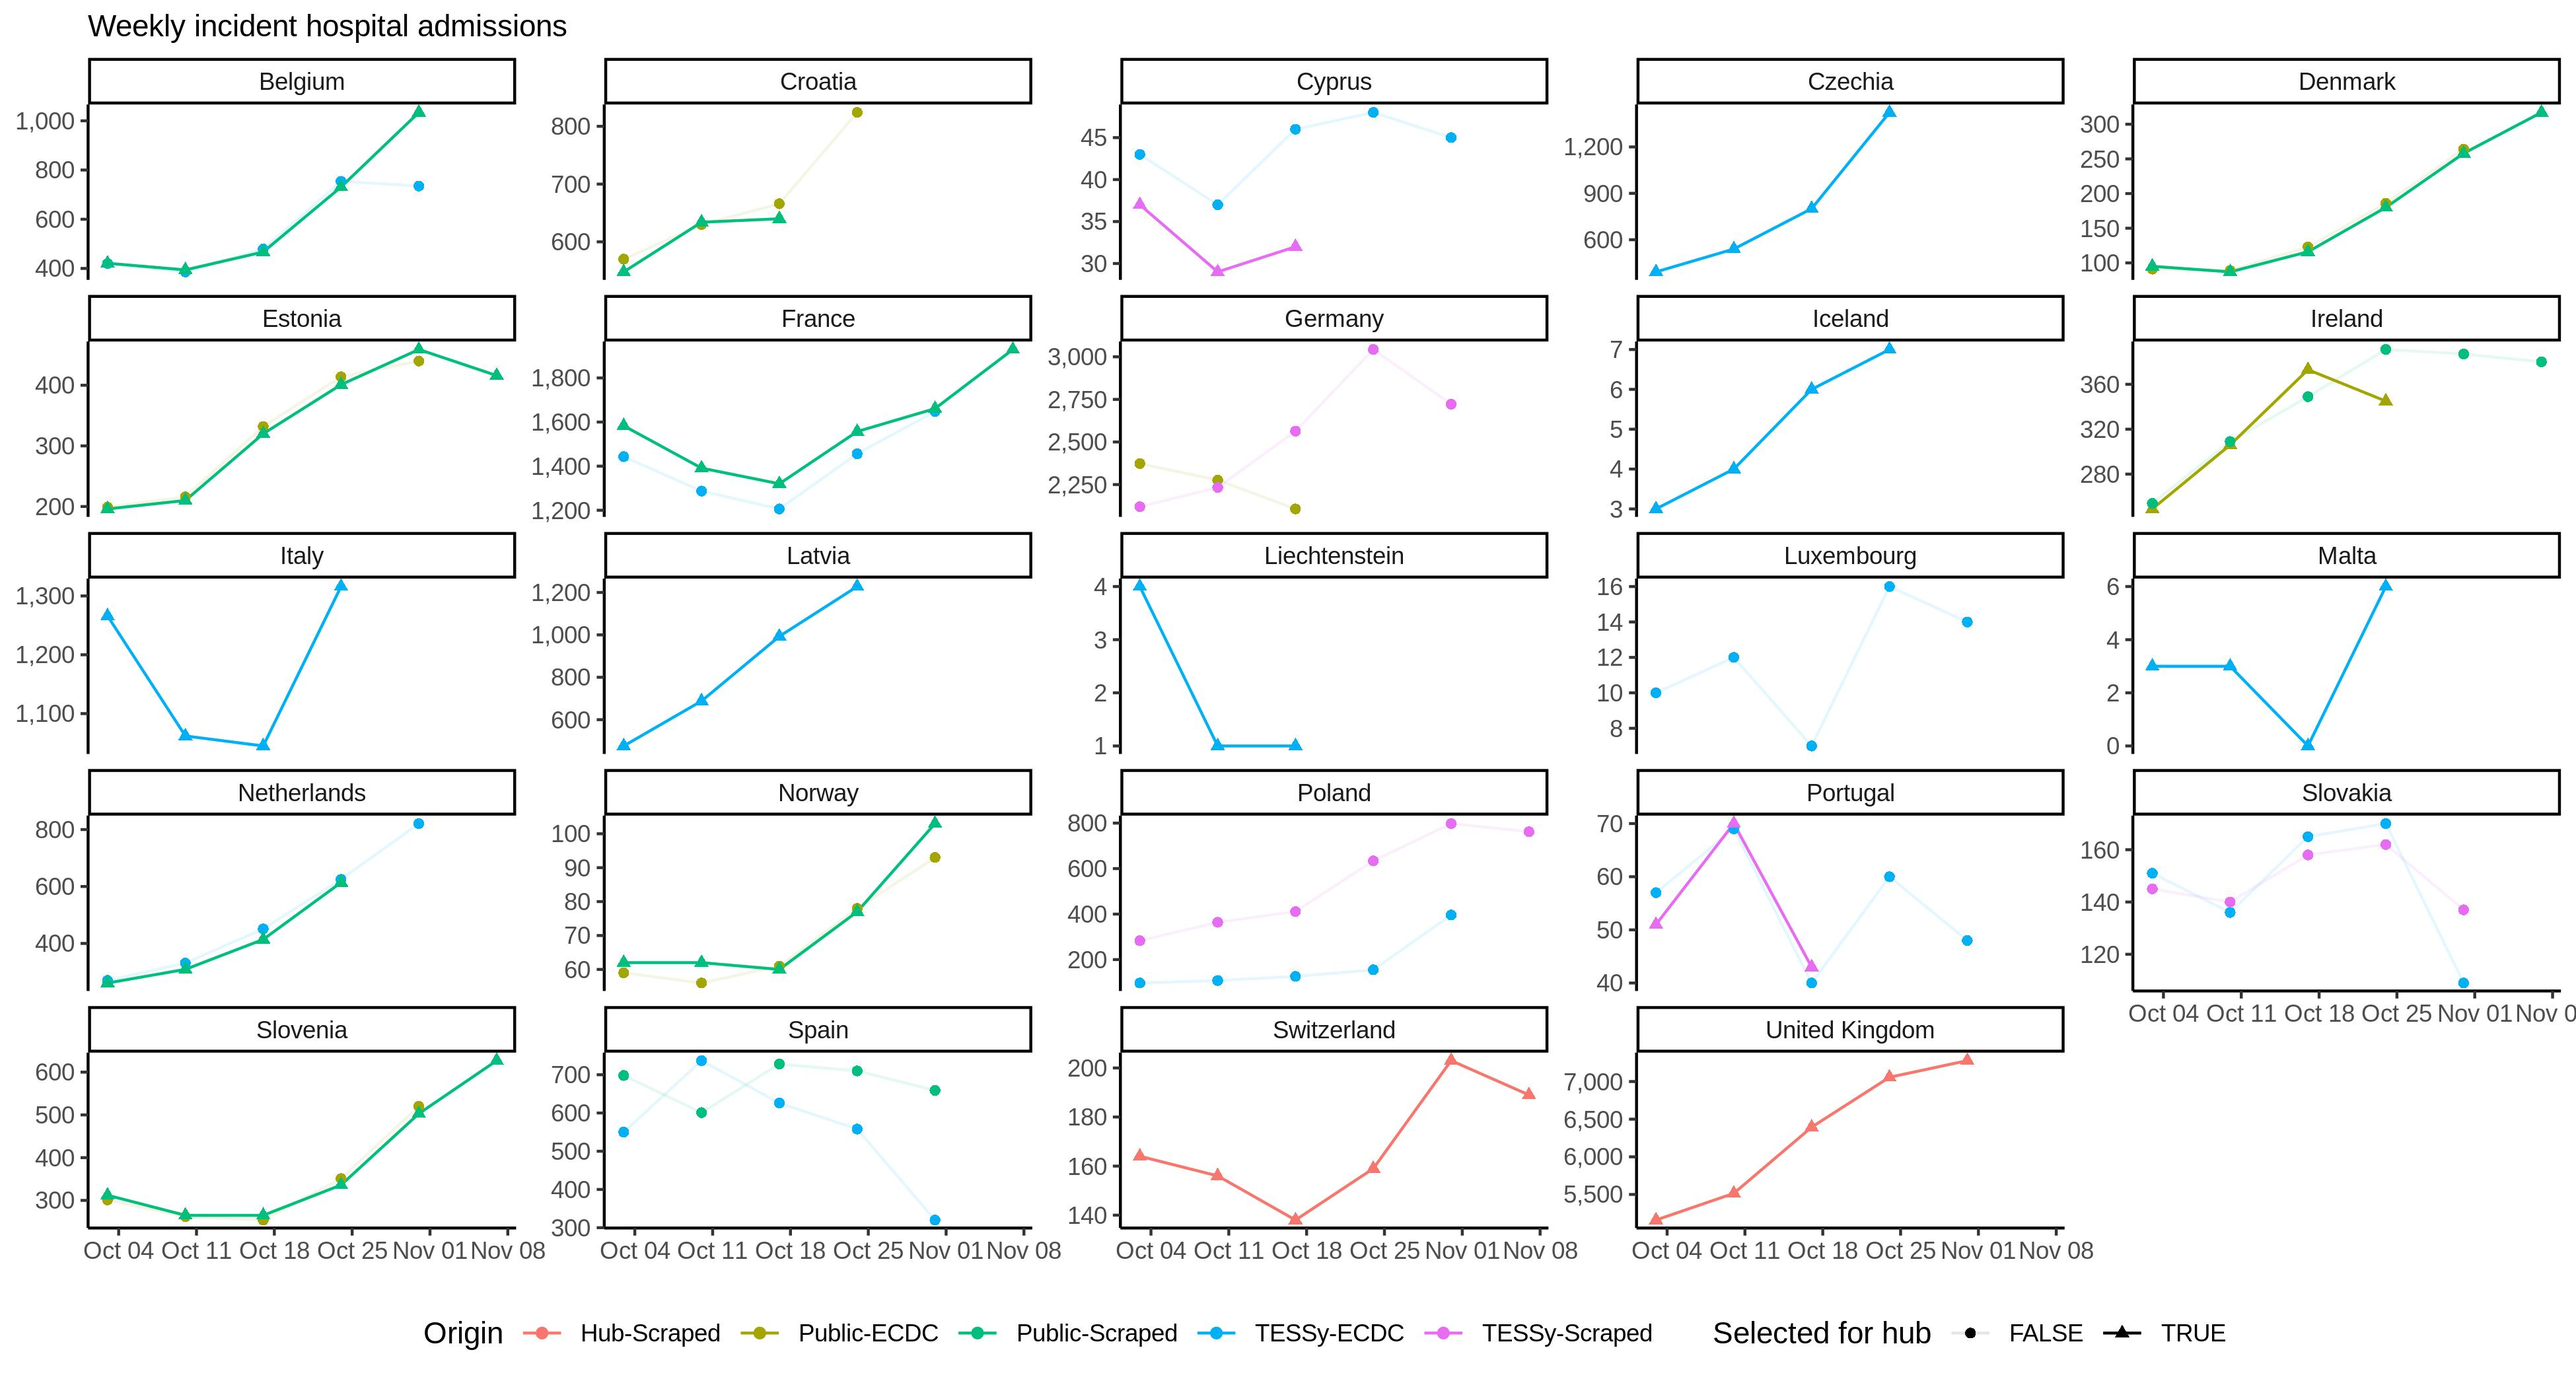
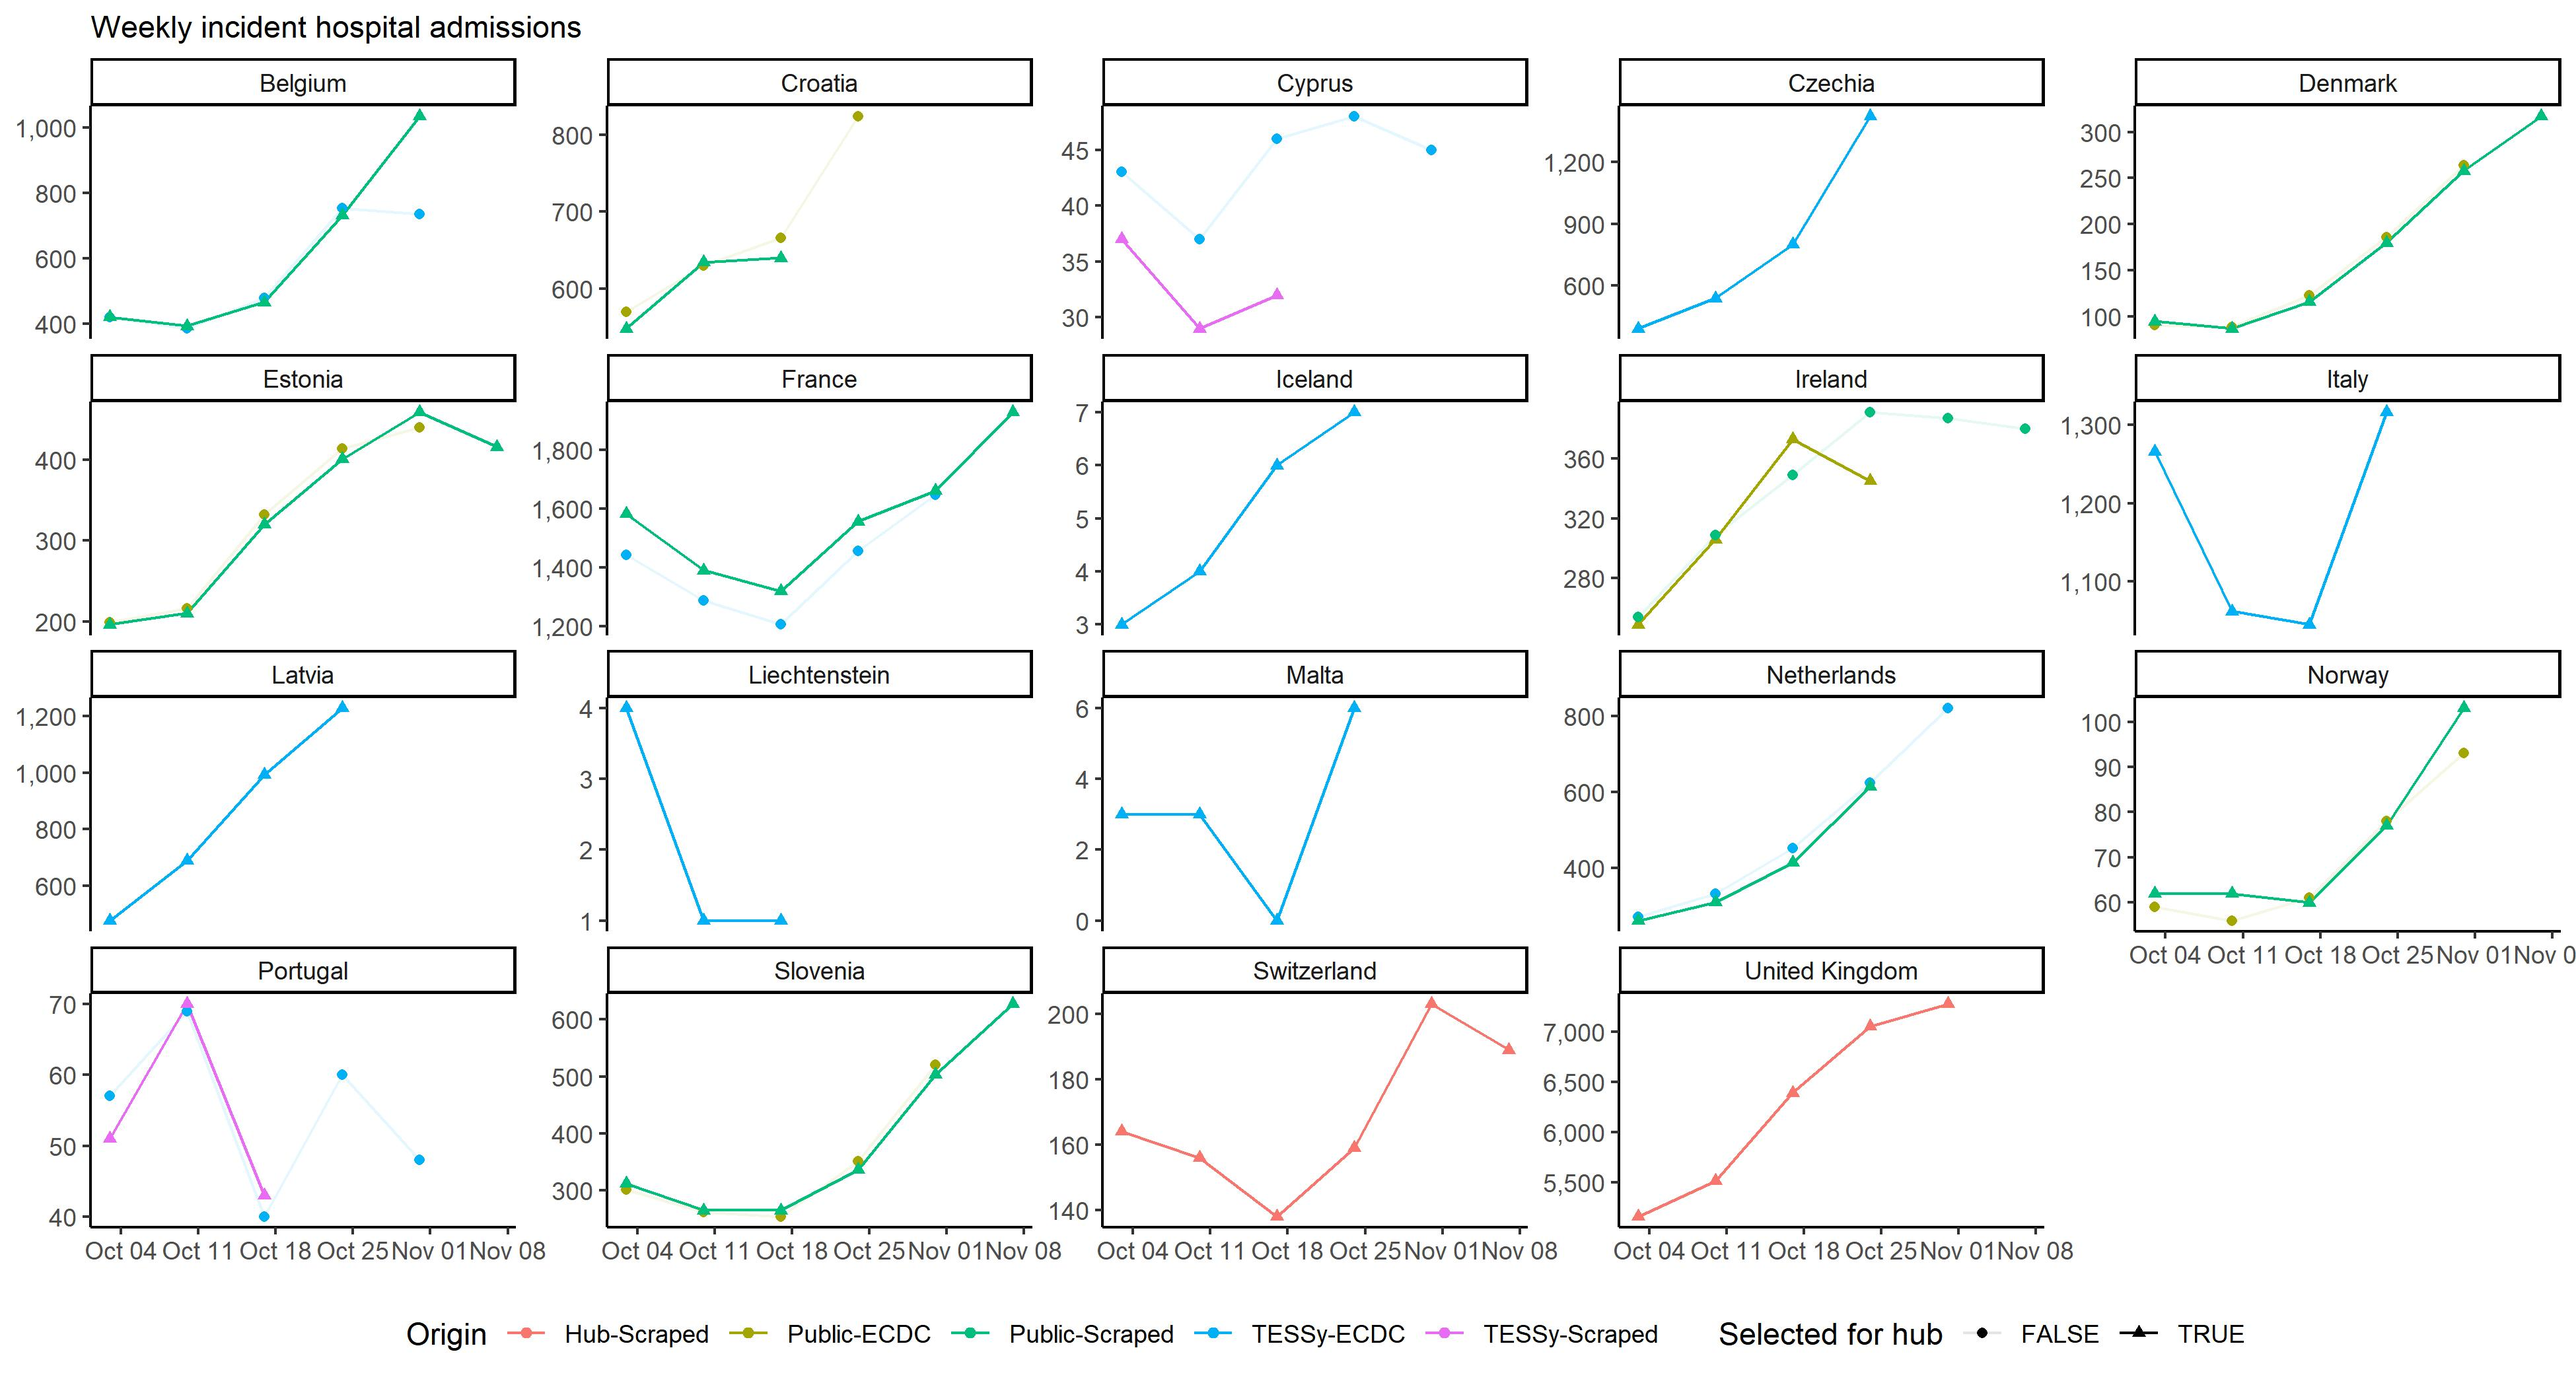
Truth data README hospitalisation clarification
Update truth data README for hospitalisations
- Clarify exactly which countries are included as valid with truth data
- Plot only those countries

There remains some problem with the JHU part of this Rmd, to be fixed separately

diff --git a/data-truth/README.md b/data-truth/README.md
@@ -9,11 +9,11 @@ We evaluate forecasts of cases and deaths against [Johns Hopkins
 University data](https://github.com/CSSEGISandData/COVID-19), and we
 recommend using this dataset as the basis for forecasts.
 
-  - Daily numbers of cases and deaths are available to download from
+-   Daily numbers of cases and deaths are available to download from
     [JHU](https://github.com/CSSEGISandData/COVID-19/tree/master/csse_covid_19_data/csse_covid_19_time_series),
     or from [our
     repository](https://github.com/epiforecasts/covid19-forecast-hub-europe/data-truth).
-  - JHU also provide [country
+-   JHU also provide [country
     metadata](https://github.com/CSSEGISandData/COVID-19/blob/master/csse_covid_19_data/UID_ISO_FIPS_LookUp_Table.csv),
     including population counts and ISO-3 codes.
 
@@ -24,13 +24,13 @@ for more on forecast formatting.
 
 #### Potential issues in the JHU dataset
 
-As at 2021-11-09 16:06:41
+As at 2021-11-10 10:25:58
 
     ## Warning in stri_replace_all_regex(string, pattern,
     ## fix_replacement(replacement), : argument is not an atomic vector; coercing
 
 | country | created | updated | issue | message | url |
-| :------ | :------ | :------ | :---- | :------ | :-- |
+|:--------|:--------|:--------|:------|:--------|:----|
 
 Open issues updated over the last eight weeks: from [JHU CSSEGISandData
 Github](https://github.com/CSSEGISandData/COVID-19/)
@@ -41,7 +41,23 @@ We gather general hospital admissions data from various sources. See
 separate [Hospitalisations
 README](https://github.com/epiforecasts/covid19-forecast-hub-europe/tree/main/code/auto_download/hospitalisations#readme).
 
+Hospitalisation data can be difficult to produce and interpret, and is
+not consistent across all the countries in the ECDC Forecast Hub. To
+keep data and forecasts consistent, we include hospitalisations
+forecasts for the following locations only:
+
+Czechia, Iceland, Ireland, Italy, Latvia, Liechtenstein, Malta, Belgium,
+Croatia, Cyprus, Denmark, Estonia, France, Netherlands, Norway,
+Portugal, Slovenia, Switzerland, United Kingdom
+
 ![](plots/hospitalisations.jpg)
+
+The Hub validates and evaluates forecasts against the single dataset in
+[ECDC/truth\_ECDC-Incident
+Hospitalizations.csv](ECDC/truth_ECDC-Incident%20Hospitalizations.csv).
+While we provide raw data files with multiple sources for
+hospitalisation data in each location, this is for reference only to
+cover daily as well as weekly data.
 
 #### Additional data sources
 
@@ -49,7 +65,7 @@ We do not use or evaluate against these data, but the following might be
 useful for modelling targets:
 
 | Data                | Description                                                                                                                              | Source | Link                                                                                                                            |
-| ------------------- | ---------------------------------------------------------------------------------------------------------------------------------------- | ------ | ------------------------------------------------------------------------------------------------------------------------------- |
+|---------------------|------------------------------------------------------------------------------------------------------------------------------------------|--------|---------------------------------------------------------------------------------------------------------------------------------|
 | Vaccination         | Number of vaccine doses distributed by manufacturers, number of first, second and unspecified doses administered                         | ECDC   | [Data on COVID-19 vaccination in the EU/EEA](https://www.ecdc.europa.eu/en/publications-data/data-covid-19-vaccination-eu-eea)  |
 | Variants of concern | Volume of COVID-19 sequencing, the number and percentage distribution of VOC for each country, week and variant submitted since 2020-W40 | ECDC   | [Data on SARS-CoV-2 variants in the EU/EEA](https://www.ecdc.europa.eu/en/publications-data/data-virus-variants-covid-19-eueea) |
 | Testing             | Weekly testing rate and weekly test positivity                                                                                           | ECDC   | [Data on testing for COVID-19 by week and country](https://www.ecdc.europa.eu/en/publications-data/covid-19-testing)            |
